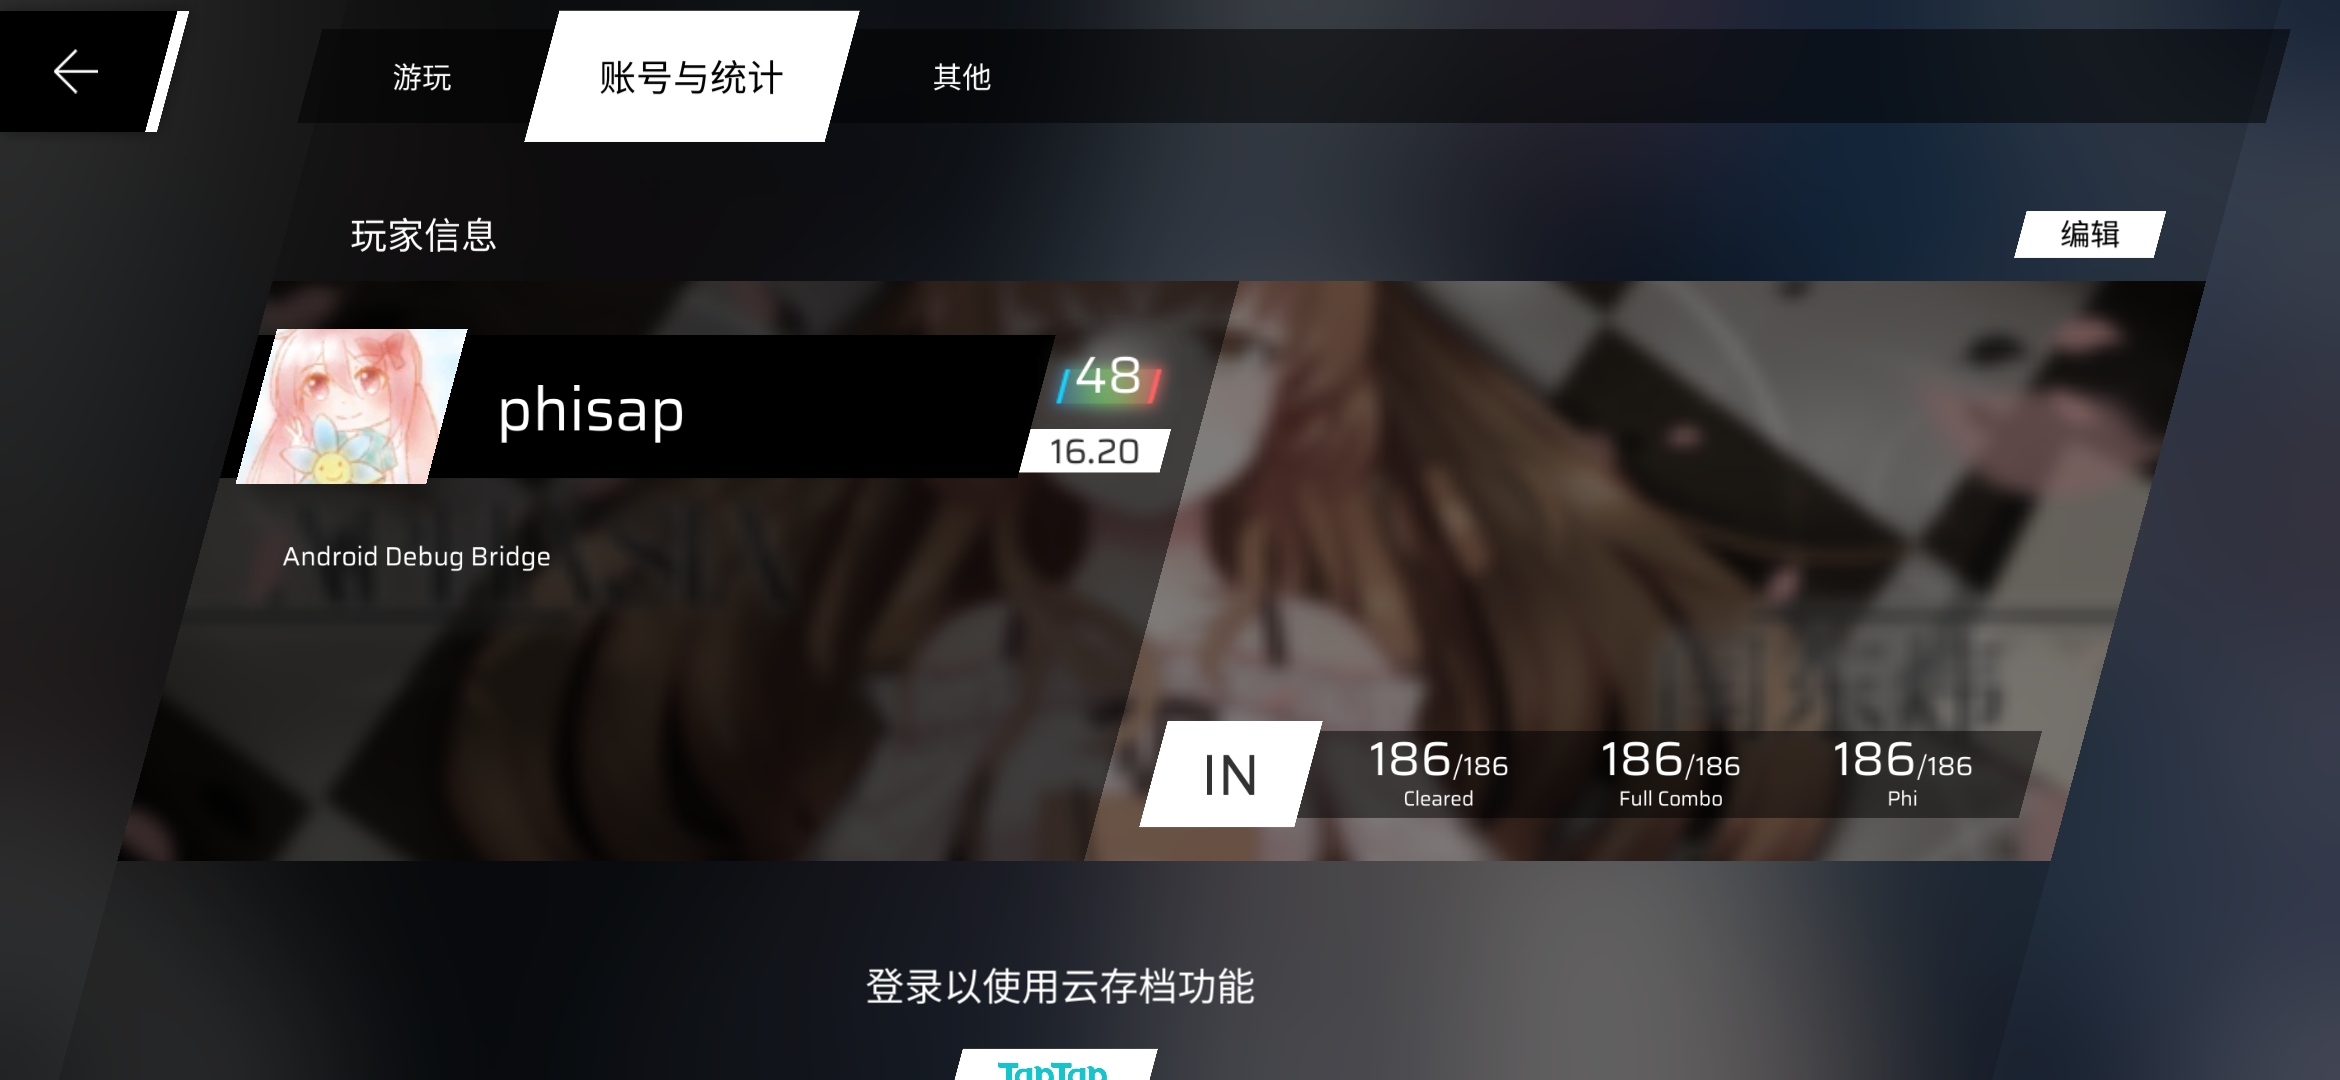
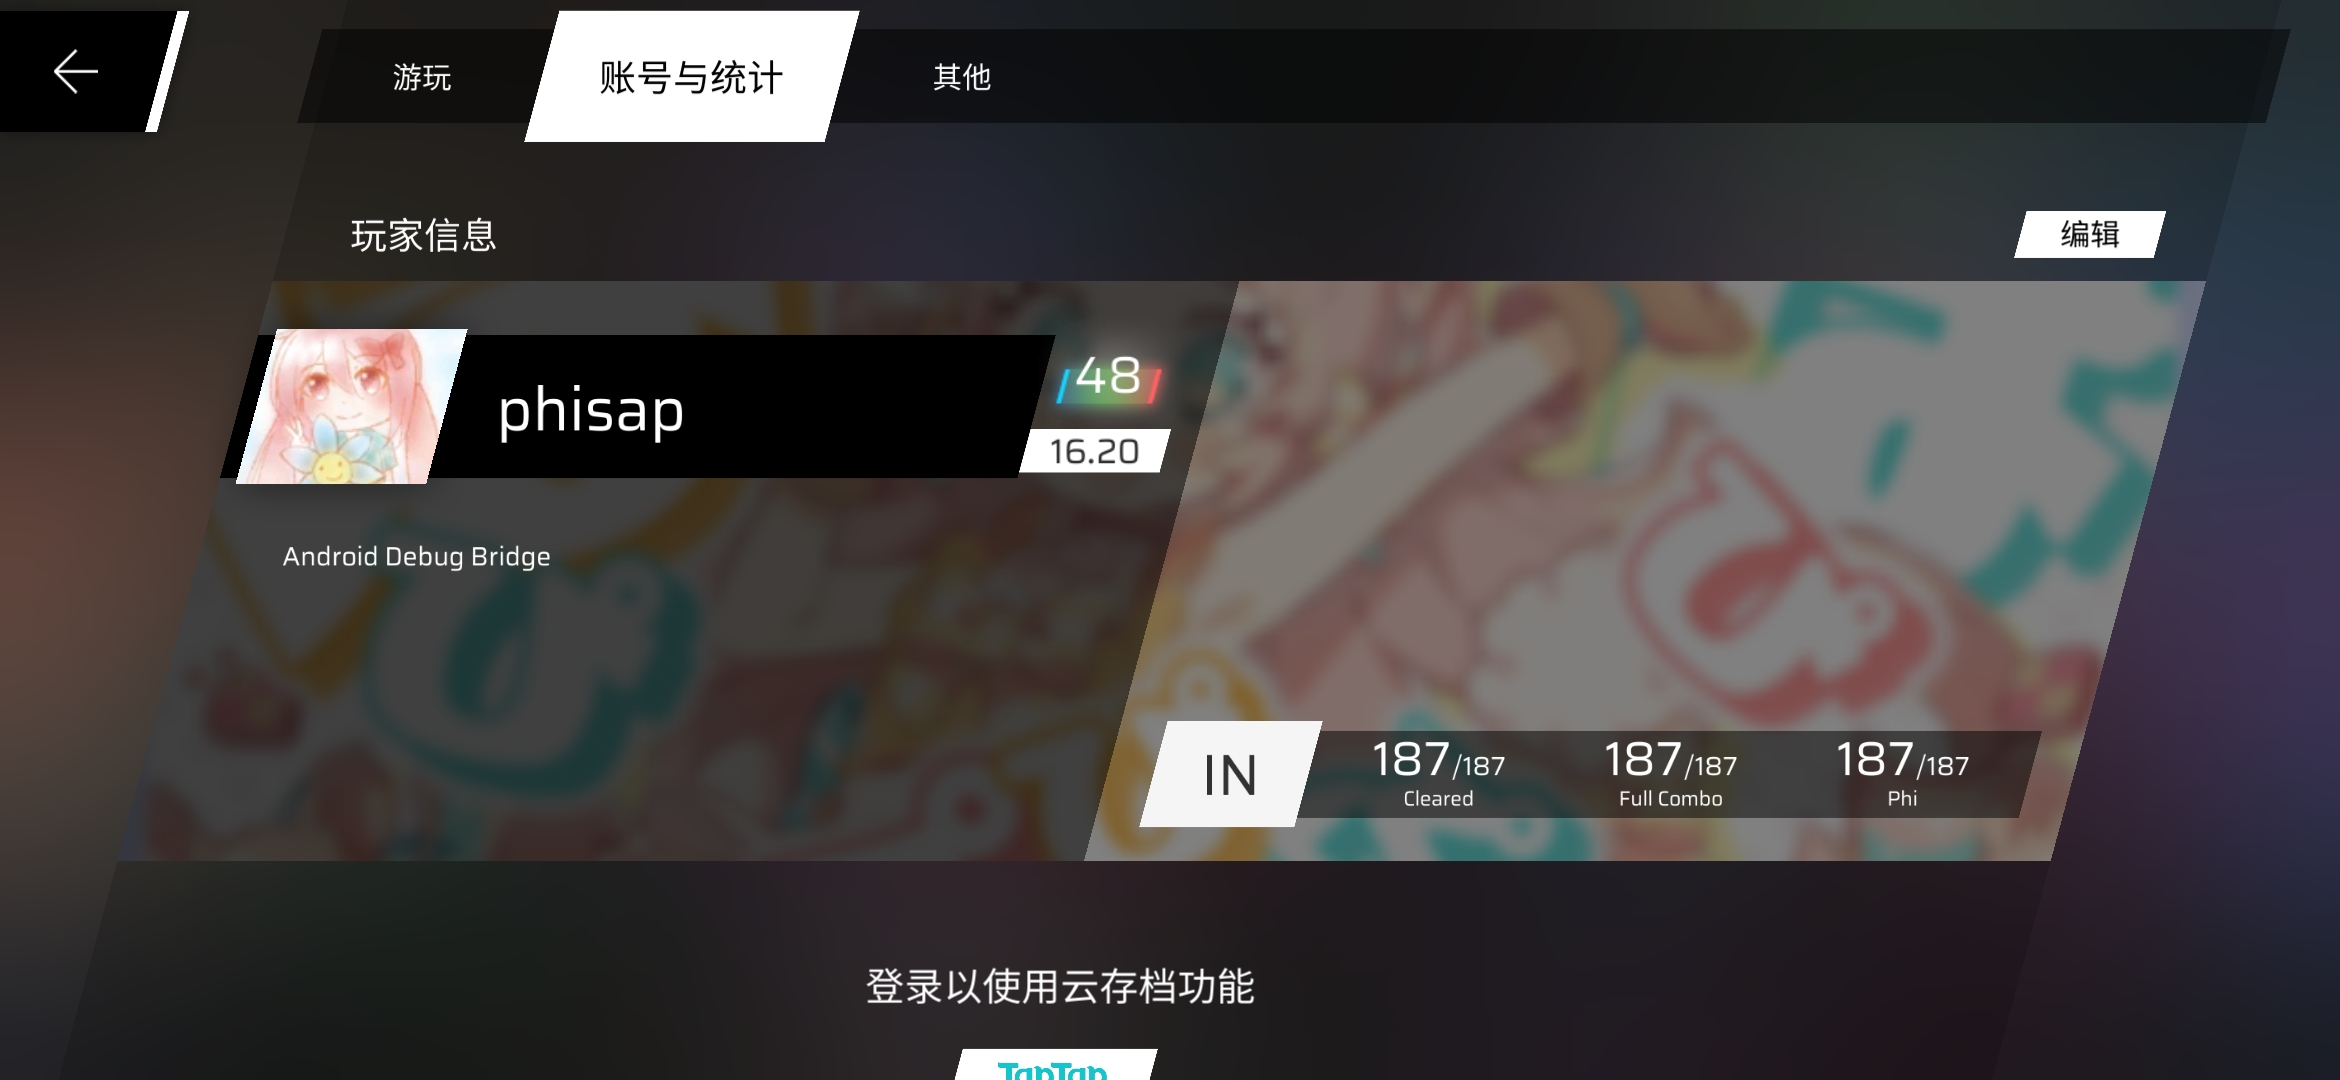
pgr 3.1.2

diff --git a/README.md b/README.md
@@ -11,7 +11,7 @@
 
 **仅支持安卓设备**
 
-![最高支持](https://img.shields.io/badge/最高支持-Phigros%203.1.1.1-blue.svg)
+![最高支持](https://img.shields.io/badge/最高支持-Phigros%203.1.2-blue.svg)
 
 _phisap的图标由[@ShintoKosei](https://github.com/ShintoKosei)制作，授权给phisap项目使用，ShintoKosei保留所有权利_
 
@@ -60,7 +60,7 @@ _phisap的图标由[@ShintoKosei](https://github.com/ShintoKosei)制作，授权
 ![Phisap截图](./public/img/screenshots/phisap_interface.png)
 
 - 注：这张图是在arch linux上截的，Qt的样式设置为Kvantum，依赖GTK的Materia Dark主题
-- 注2: 截图的更新可能并不及时，请以实际的运行结果为止
+- 注2: 截图的更新可能并不及时，请以实际的运行结果为准
 
 ## 成果展示
 
@@ -81,7 +81,7 @@ _phisap的图标由[@ShintoKosei](https://github.com/ShintoKosei)制作，授权
    - 请使用正式版，**不要使用开发者预览(early developer preview)版**
 1. 使用`pip install -r requirements.txt`安装依赖
 2. 请安装`Android Debug Bridge`，**要求版本号至少为`1.0.41`**，并确保相应的环境变量已经配置好。
-3. 请准备 Phigros 的游戏安装包/通用数据包。目前支持的游戏版本为 2.0.0 至 3.1.1.1
+3. 请准备 Phigros 的游戏安装包/通用数据包。目前支持的游戏版本为 2.0.0 至 3.1.2
    - 如果你的 phigros 是 taptap 版，那么只需要游戏安装包即可
      - 如果你使用\*nix 系统(如 Linux 或 Mac OS)，则你可以使用如下的`bash shell`命令从安卓设备上提取安装包
        ```bash
@@ -123,7 +123,7 @@ python main.py
 
 - 虽然 phisap 的灵感来源为`sudo 板子自己打歌 `，不过**本程序并不依赖 root 权限工作**
 - 一些情况下有可能因误触发三指截屏或通知中心而导致 miss，不是每台设备都会触发，视厂商和设备型号而定
-- **phisap 当前完美支持的最高版本为 3.1.1.1**，所有的曲目/任意难度均可以 AP，除了一些特殊类型的谱面（不用担心，不会影响 rks）。这些谱面详见[暂不支持的谱面](#暂不支持的谱面)。不过，在使用 phisap 时可能会发现一些谱面无法 AP，那么这时你需要
+- **phisap 当前完美支持的最高版本为 3.1.2**，所有的曲目/任意难度均可以 AP，除了一些特殊类型的谱面（不用担心，不会影响 rks）。这些谱面详见[暂不支持的谱面](#暂不支持的谱面)。不过，在使用 phisap 时可能会发现一些谱面无法 AP，那么这时你需要
   - 确保计时器同步的精确程度满足要求，如果你发现 phisap 打出了 FULL COMBO，但并没有 AP，这**一定**说明你的计时器同步没有做好
   - 如果计时器同步没有问题，那么你可以试试换一个规划算法。目前一些谱面只能由保守算法达成 AP，而另一些只能由激进算法达成，当然，大部分的谱面使用任意一个都可以完成
   - 如果你发现还是不行，那么你可以考虑开一个 issue，跟我说明这个问题
@@ -245,6 +245,10 @@ phisap 并没有对课题模式做特殊的支持，将来也许会有
 图标仅限phisap项目本身使用，其他任何人或团体不得以任何方式使用，原作者 @ShintoKosei 保留所有权利
 
 ## 更新日志
+### (2023/08/08)
+- Pgr 3.1.2
+  - tmd这谱子不会是谱师溜大了写出来的吧
+
 ### (2023/08/06) v0.16
 - 修复pgr旧谱(formatVersion=1)解析错误的问题
 - 更正缩放逻辑
